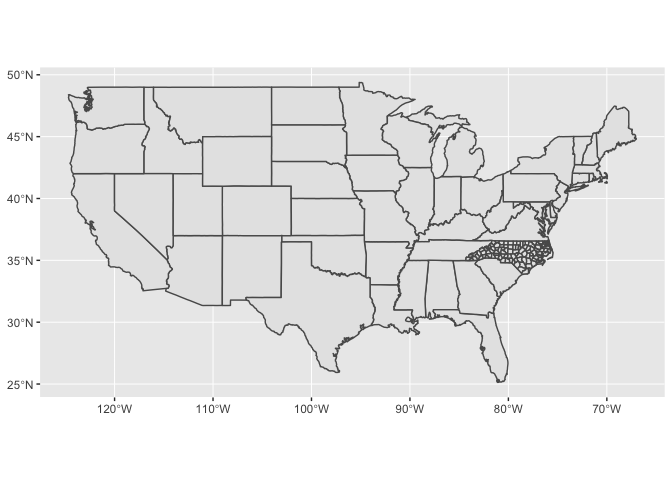
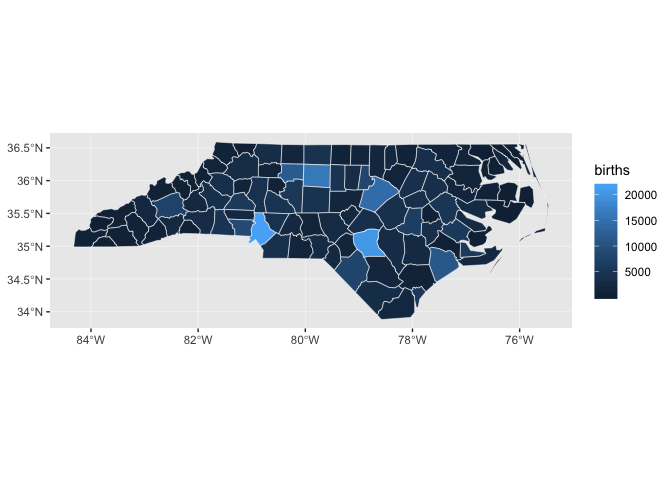
Update for week 7

diff --git a/docs/spatial-vis.md b/docs/spatial-vis.md
@@ -8,85 +8,248 @@ title: Spatial visualization
 <small>(Builds on: [Spatial basics](spatial-basics.md))</small>
 
 
-Setup
------
+## Setup
 
-We'll start by loading the tidyverse, sf, and read in a couple of sample datasets.
+We’ll start by reading in a couple of sample data sets, as well as
+loading the sf package.
 
 ``` r
 library(tidyverse)
 library(sf)
 
-nc <- read_sf(system.file("shape/nc.shp", package = "sf"))
+nc_1974 <- 
+  read_sf(system.file("shape/nc.shp", package = "sf")) %>% 
+  select(FIPS, NAME, births = BIR74, sids = SID74,  geometry) %>% 
+  rename_all(str_to_lower) 
+
 states <- st_as_sf(maps::map("state", plot = FALSE, fill = TRUE))
 ```
 
-`geom_sf()`
------------
+In Spatial basics, you learned how to plot spatial data using the
+`plot()` function. Now, we’ll show you how to visualize spatial data
+using `geom_sf()`. The advantage of `geom_sf()` is that, as part of
+ggplot2, you can layer geoms, use scales functions to change colors,
+tweak your legends, alter the theme, etc.
 
-The easiest way to get started is to supply an sf object to `geom_sf()`:
+## `geom_sf()`
 
-``` r
-ggplot() +
-  geom_sf(data = nc)
-```
-
-![](spatial-vis_files/figure-markdown_github/unnamed-chunk-2-1.png)
-
-Notice that ggplot2 takes care of setting the aspect ratio correctly.
-
-You can supply other aesthetics: for polygons, `fill` is most useful:
+`nc_74` contains data on deaths from Sudden Infant Death Syndrome (SIDS)
+in 1974 for counties in North Carolina.
 
 ``` r
-ggplot() +
-  geom_sf(aes(fill = AREA), data = nc, color = "white")
+nc_1974
+#> Simple feature collection with 100 features and 4 fields
+#> geometry type:  MULTIPOLYGON
+#> dimension:      XY
+#> bbox:           xmin: -84.32385 ymin: 33.88199 xmax: -75.45698 ymax: 36.58965
+#> epsg (SRID):    4267
+#> proj4string:    +proj=longlat +datum=NAD27 +no_defs
+#> # A tibble: 100 x 5
+#>    fips  name     births  sids                                     geometry
+#>    <chr> <chr>     <dbl> <dbl>                           <MULTIPOLYGON [°]>
+#>  1 37009 Ashe       1091     1 (((-81.47276 36.23436, -81.54084 36.27251, …
+#>  2 37005 Allegha…    487     0 (((-81.23989 36.36536, -81.24069 36.37942, …
+#>  3 37171 Surry      3188     5 (((-80.45634 36.24256, -80.47639 36.25473, …
+#>  4 37053 Curritu…    508     1 (((-76.00897 36.3196, -76.01735 36.33773, -…
+#>  5 37131 Northam…   1421     9 (((-77.21767 36.24098, -77.23461 36.2146, -…
+#>  6 37091 Hertford   1452     7 (((-76.74506 36.23392, -76.98069 36.23024, …
+#>  7 37029 Camden      286     0 (((-76.00897 36.3196, -75.95718 36.19377, -…
+#>  8 37073 Gates       420     0 (((-76.56251 36.34057, -76.60424 36.31498, …
+#>  9 37185 Warren      968     4 (((-78.30876 36.26004, -78.28293 36.29188, …
+#> 10 37169 Stokes     1612     1 (((-80.02567 36.25023, -80.45301 36.25709, …
+#> # … with 90 more rows
 ```
 
-![](spatial-vis_files/figure-markdown_github/unnamed-chunk-3-1.png)
+First, let’s just plot the county boundaries. `geom_sf()` works like the
+other geoms, except that you don’t need to specify an aesthetic mapping.
+By default, `geom_sf()` will plot your `geometry` column.
 
-When you include multiple layers, ggplot2 will take care of ensuring that they all have a common coordinate reference system (CRS) so that it makes sense to overlay them.
+``` r
+nc_1974 %>% 
+  ggplot() +
+  geom_sf()
+```
+
+![](spatial-vis_files/figure-gfm/unnamed-chunk-3-1.png)<!-- -->
+
+Notice that ggplot2 takes care of setting the aspect ratio correctly. If
+we just plot a single county in North Carolina, the default aspect ratio
+will be different.
+
+``` r
+nc_1974 %>% 
+  filter(name == "Anson") %>% 
+  ggplot() +
+  geom_sf()
+```
+
+![](spatial-vis_files/figure-gfm/unnamed-chunk-4-1.png)<!-- -->
+
+Just like with other geoms, you can supply additional aesthetics. For
+polygons like the counties of North Carolina, `fill` is the most useful
+aesthetic. Let’s visualize the number of births by county.
+
+``` r
+nc_1974 %>% 
+  ggplot(aes(fill = births)) +
+  geom_sf(color = "white", size = 0.2)
+```
+
+![](spatial-vis_files/figure-gfm/unnamed-chunk-5-1.png)<!-- -->
+
+Maps like this one, in which geographic areas are colored according to
+some variable, are called *choropleths*.
+
+``` r
+nc_1974 %>% 
+  ggplot(aes(fill = births)) +
+  geom_sf(color = "white", size = 0.2)
+```
+
+![](spatial-vis_files/figure-gfm/unnamed-chunk-6-1.png)<!-- -->
+
+Notice how it’s difficult to tell the difference between many of the
+counties, especially those with very low numbers of births.
+
+Let’s look at the distribution of births.
+
+``` r
+nc_1974 %>% 
+  ggplot(aes(births)) +
+  geom_histogram(binwidth = 500) +
+  scale_x_continuous(breaks = seq(0, 2e5, 2e3))
+```
+
+![](spatial-vis_files/figure-gfm/unnamed-chunk-7-1.png)<!-- -->
+
+Almost all of the counties fall between 0 and 8,000, but because there
+are some counties with births up to 22,000, the sequential color scale
+will linearly map colors between 0 and 22,000.
+
+One way to deal with this problem is to cap `births`.
+
+``` r
+nc_1974 %>% 
+  mutate(births = pmin(births, 1e4)) %>% 
+  ggplot(aes(fill = births)) +
+  geom_sf()
+```
+
+![](spatial-vis_files/figure-gfm/unnamed-chunk-8-1.png)<!-- -->
+
+## Layering
+
+When you include multiple geospatial layers, ggplot2 will ensure that
+they all have a common coordinate reference system (CRS) so that it
+makes sense to overlay them.
 
 ``` r
 ggplot() +
   geom_sf(data = states) + 
-  geom_sf(data = nc)
+  geom_sf(data = nc_1974)
 ```
 
-![](spatial-vis_files/figure-markdown_github/unnamed-chunk-4-1.png)
+![](spatial-vis_files/figure-gfm/unnamed-chunk-9-1.png)<!-- -->
 
-You can combine `geom_sf()` with other geoms. In this case, `x` and `y` positions are assumed be in the same CRS as the sf object (typically these will be longitude and latitude).
+In the above code, we didn’t pipe any data into `ggplot()` because each
+layer uses different data.
+
+Because `geom_sf()` is part of ggplot2, you can combine `geom_sf()` with
+other geoms.
 
 ``` r
-ggplot() +
-  geom_sf(data = nc) +
-  annotate(geom = "point", x = -80, y = 35, color = "red", size = 4)
+raleigh <- 
+  tibble(
+    x = -78.644257,
+    y = 35.787743,
+    label = "Raleigh"
+  )
+
+nc_1974 %>% 
+  mutate(births = pmin(births, 1e4)) %>% 
+  ggplot() +
+  geom_sf(aes(fill = births)) +
+  geom_point(aes(x, y), color = "red", data = raleigh) +
+  geom_label(aes(x, y, label = label), nudge_x = 0.8, data = raleigh) +
+  scale_fill_gradient(low = "#efedf5", high = "#756bb1")
 ```
 
-![](spatial-vis_files/figure-markdown_github/unnamed-chunk-5-1.png)
+![](spatial-vis_files/figure-gfm/unnamed-chunk-10-1.png)<!-- -->
 
-`coord_sf()`
-------------
+In this case, the `x` and `y` positions of the Raleigh dot are assumed
+be in the same CRS as the sf object.
 
-You'll need to use `coord_sf()` for two reasons:
+You can find this lighter color scale, and many others, at the
+[ColorBrewer website](http://colorbrewer2.org/#).
 
--   You want to zoom into a specified region of the plot by using `xlim` and `ylim`
+## `coord_sf()`
 
+You’ll need to use `coord_sf()` for two reasons:
+
+  - You want to zoom into a specified region of the plot.
+    
+    The following plot shows the SIDS rate by county.
+    
     ``` r
-    ggplot() +
-      geom_sf(data = nc) +
-      annotate(geom = "point", x = -80, y = 35, color = "red", size = 4) + 
-      coord_sf(xlim = c(-81, -79), ylim = c(34, 36))
+    nc_1974 <-
+      nc_1974 %>% 
+      mutate(sids_rate = sids / births)
+    
+    nc_1974 %>% 
+      ggplot(aes(fill = sids_rate)) + 
+      geom_sf()
     ```
-
-    ![](spatial-vis_files/figure-markdown_github/unnamed-chunk-6-1.png)
-
--   You want to override to use a specific projection. If you don't specify the `crs` argument, it just uses the one provided in the first layer. The following example uses an Albers Equal Area projection and the NAD83 datum, with an EPSG code of 102003.
-
+    
+    ![](spatial-vis_files/figure-gfm/unnamed-chunk-11-1.png)<!-- -->
+    
+    Let’s zoom in on the county with the highest rate (and also change
+    the color scale).
+    
     ``` r
-    ggplot() +
-      geom_sf(data = states) +
+    nc_1974 %>% 
+      ggplot(aes(fill = sids_rate)) + 
+      geom_sf() +
+      scale_fill_gradient(low = "#efedf5", high = "#756bb1") +
+      coord_sf(xlim = c(-80.5, -79), ylim = c(34.8, 36))
+    ```
+    
+    ![](spatial-vis_files/figure-gfm/unnamed-chunk-12-1.png)<!-- -->
+
+  - You can also use `coord_sf()` to override the projection in the
+    data. If you don’t specify the `crs` argument to `coord_sf()`, if
+    defaults to the CRS given in the data.
+    
+    The CRS for the `states` data is
+    
+    ``` r
+    states %>% 
+      st_crs()
+    #> Coordinate Reference System:
+    #>   EPSG: 4326 
+    #>   proj4string: "+proj=longlat +datum=WGS84 +no_defs"
+    ```
+    
+    which produces a map that looks like this:
+    
+    ``` r
+    states %>% 
+      ggplot() +
+      geom_sf()
+    ```
+    
+    ![](spatial-vis_files/figure-gfm/unnamed-chunk-14-1.png)<!-- -->
+    
+    If you’re visualizing the entire US, it’s better to use the US
+    Albers projection. Albers is an equal-area projection, which means
+    it accurately reflects the areas of geographic regions. The ESPG
+    code of US Albers is 102003.
+    
+    ``` r
+    states %>% 
+      ggplot() +
+      geom_sf() +
       coord_sf(crs = st_crs(102003))
     ```
-
-    ![](spatial-vis_files/figure-markdown_github/unnamed-chunk-7-1.png)
+    
+    ![](spatial-vis_files/figure-gfm/unnamed-chunk-15-1.png)<!-- -->
 
